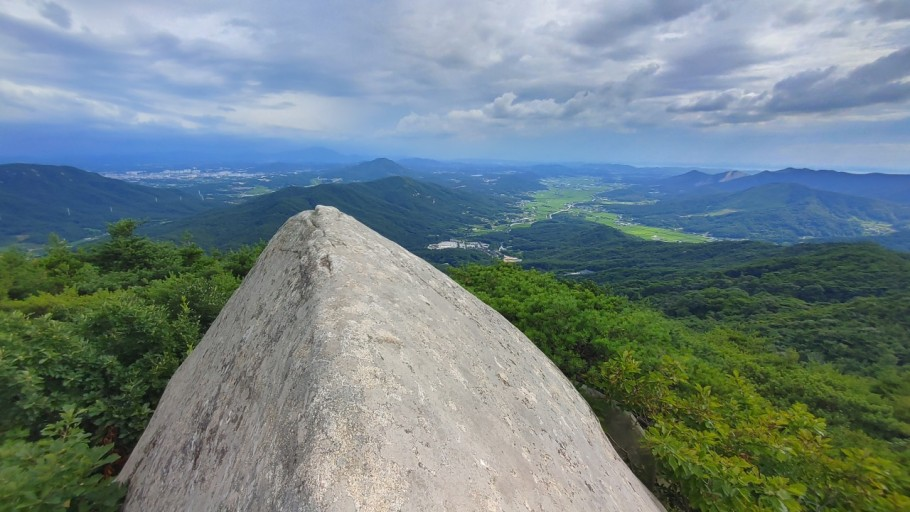
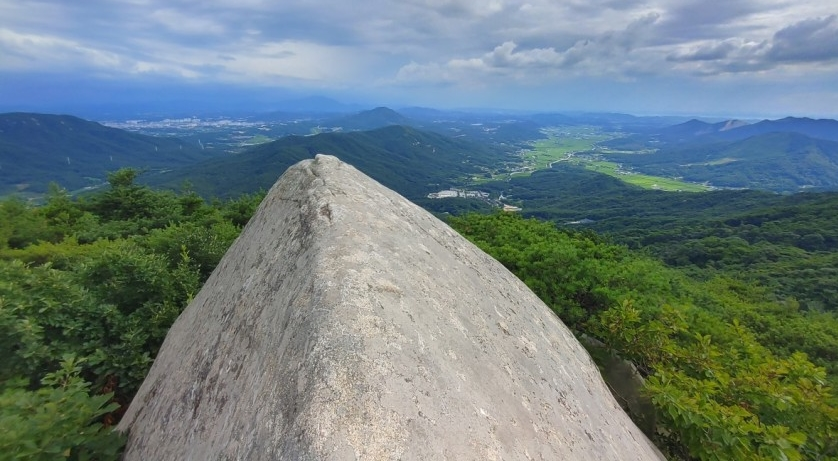
220217 산정보 상세(슬라이드 이미지 수정 전)

diff --git a/html/1mountain-detail.html b/html/1mountain-detail.html
@@ -39,10 +39,10 @@
 </head>
 
 <body style="padding-top: 72px">
-  <header class="header">     
+  <header class="header">
     <!-- 내브바 -->
     <nav class="navbar navbar-expand-lg fixed-top shadow navbar-light bg-white">
-      <div class="container"> 
+      <div class="container">
         <div class="d-flex align-items-center">
           <a class="navbar-brand py-1" href="index.html">
             <img src="img/logo/logo_name.png" alt="Directory logo" class="w-6rem" />
@@ -61,26 +61,31 @@
                 <i class="fa fa-search"></i>
                 <span class="sr-only">What are you looking for?</span>
               </label>
-              <input class="form-control form-control-sm border-0 shadow-0 bg-gray-200" id="searchcollapsed_search" placeholder="Search" aria-label="Search" type="search" />
+              <input class="form-control form-control-sm border-0 shadow-0 bg-gray-200" id="searchcollapsed_search"
+                placeholder="Search" aria-label="Search" type="search" />
             </div>
           </form>
           <ul class="navbar-nav ms-auto">
             <li class="nav-item">
-              <a class="nav-link fs-6" id="docsDropdownMenuLink" href="index.html" data-bs-toggle="dropdown" aria-haspopup="true" aria-expanded="false">산림</a>
+              <a class="nav-link fs-6" id="docsDropdownMenuLink" href="index.html" data-bs-toggle="dropdown"
+                aria-haspopup="true" aria-expanded="false">산림</a>
               <div class="dropdown-menu dropdown-menu-end" aria-labelledby="docsDropdownMenuLink"></div>
             </li>
             <li class="nav-item dropdown">
-              <a class="nav-link dropdown-toggle fs-6" id="docsDropdownMenuLink" href="index.html" data-bs-toggle="dropdown" aria-haspopup="true" aria-expanded="false">둘레길/자전거길</a>
+              <a class="nav-link dropdown-toggle fs-6" id="docsDropdownMenuLink" href="index.html"
+                data-bs-toggle="dropdown" aria-haspopup="true" aria-expanded="false">둘레길/자전거길</a>
               <div class="dropdown-menu dropdown-menu-end" aria-labelledby="docsDropdownMenuLink">
                 <a class="dropdown-item" href="docs/docs-introduction.html">둘레길</a>
                 <a class="dropdown-item" href="docs/docs-directory-structure.html">자전거길</a>
               </div>
             </li>
             <li class="nav-item">
-              <a class="nav-link fs-6" id="docsDropdownMenuLink" href="index.html" data-bs-toggle="dropdown" aria-haspopup="true" aria-expanded="false">휴양림</a>
+              <a class="nav-link fs-6" id="docsDropdownMenuLink" href="index.html" data-bs-toggle="dropdown"
+                aria-haspopup="true" aria-expanded="false">휴양림</a>
             </li>
             <li class="nav-item dropdown">
-              <a class="nav-link dropdown-toggle fs-6" id="docsDropdownMenuLink" href="index.html" data-bs-toggle="dropdown" aria-haspopup="true" aria-expanded="false">커뮤니티</a>
+              <a class="nav-link dropdown-toggle fs-6" id="docsDropdownMenuLink" href="index.html"
+                data-bs-toggle="dropdown" aria-haspopup="true" aria-expanded="false">커뮤니티</a>
               <div class="dropdown-menu dropdown-menu-end" aria-labelledby="docsDropdownMenuLink">
                 <a class="dropdown-item" href="docs/docs-introduction.html">방문후기</a>
                 <a class="dropdown-item" href="docs/docs-directory-structure.html">자유게시판</a>
@@ -100,34 +105,32 @@
   </header>
   <!-- 메인 -->
   <section>
-    <!-- Slider main container-->
+    <!-- 사진 슬라이더 -->
     <div class="swiper-container detail-slider slider-gallery">
-      <!-- Additional required wrapper-->
       <div class="swiper-wrapper">
-        <!-- Slides-->
         <div class="swiper-slide w-auto">
-          <a href="img/community1.jpg" data-toggle="gallery-top" title="Our street"><img class="img-fluid"
-              src="img/community1.jpg" alt="Our street" /></a>
+          <a href="img/top100/덕숭산.jpg" data-toggle="gallery-top" title="Our street"><img class="img-fluid"
+              src="img/top100/덕숭산.jpg" alt="Our street" /></a>
         </div>
         <div class="swiper-slide w-auto">
-          <a href="img/top100/강천산2.jpg" data-toggle="gallery-top" title="Outside"><img class="img-fluid"
-              src="img/top100/강천산2.jpg" alt="Outside" /></a>
+          <a href="img/top100/덕숭산2.jpg" data-toggle="gallery-top" title="Outside"><img class="img-fluid"
+              src="img/top100/덕숭산2.jpg" alt="Outside" /></a>
         </div>
         <div class="swiper-slide w-auto">
-          <a href="img/top100/가지산5.jpg" data-toggle="gallery-top" title="Rear entrance"><img class="img-fluid"
-              src="img/top100/가지산5.jpg" alt="Rear entrance" /></a>
+          <a href="img/top100/덕숭산3.jpg" data-toggle="gallery-top" title="Rear entrance"><img class="img-fluid"
+              src="img/top100/덕숭산3.jpg" alt="Rear entrance" style="object-fit: fill;" /></a>
         </div>
         <div class="swiper-slide w-auto">
-          <a href="img/top100/구병산2.jpg" data-toggle="gallery-top" title="Kitchen"><img class="img-fluid"
-              src="img/top100/구병산2.jpg" alt="Kitchen" /></a>
+          <a href="img/top100/덕숭산4.jpg" data-toggle="gallery-top" title="Kitchen"><img class="img-fluid"
+              src="img/top100/덕숭산4.jpg" alt="Kitchen" /></a>
         </div>
         <div class="swiper-slide w-auto">
-          <a href="img/top100/내연산2.jpg" data-toggle="gallery-top" title="Bedroom"><img class="img-fluid"
-              src="img/top100/금오산5.jpg" alt="Bedroom" /></a>
+          <a href="img/top100/덕숭산5.jpg" data-toggle="gallery-top" title="Bedroom"><img class="img-fluid"
+              src="img/top100/덕숭산5.jpg" alt="Bedroom" /></a>
         </div>
         <div class="swiper-slide w-auto">
-          <a href="img/top100/내연산2.jpg" data-toggle="gallery-top" title="Bedroom"><img class="img-fluid"
-              src="img/top100/내연산2.jpg" alt="Bedroom" /></a>
+          <a href="img/top100/덕숭산6.jpg" data-toggle="gallery-top" title="Bedroom"><img class="img-fluid"
+              src="img/top100/덕숭산6.jpg" alt="Bedroom" /></a>
         </div>
       </div>
       <div class="swiper-pagination swiper-pagination-white"></div>
@@ -135,112 +138,118 @@
       <div class="swiper-button-next swiper-button-white"></div>
     </div>
   </section>
+
   <!-- Hero Section2-->
-  <section class="py-4">
+  <section class="py-6">
     <div class="container">
       <div class="row">
         <div class="col-xl-8 col-lg-10 mx-auto">
           <div class="text-content">
-            <h1 class="mb-3">덕숭산(해발 고도 1708m)</h1>
-            <h3 class="mb-2">100대 명산 선정 이유</h3>
-            <p>
-              지역 주민들이 소금강이라고 할 만큼 기암괴석과 어우러진 경관이
-              수려하고, 도립공원으로 지정(1973년)되어 있는 점 등을 감안하여
-              선정, 백제 제29대 법왕 원년(599년) 지명법사가 창건한
-              수덕사(修德寺), 보물 제355호인 마애불과 덕산온천이 유명하다.
-            </p>
-            <figure class="figure mb-3">
-              <img class="figure-img img-fluid" src="img/top100/덕숭산.jpg" alt="Example blog post alt." />
-              <figcaption class="figure-caption text-center">
-                충청남도 예산군 덕산면
-              </figcaption>
-            </figure>
-            <h3 class="mb-2">상세정보</h3>
-            <p>
-              덕숭산은 호서(湖西)의 금강산(金剛山)이라고도 불리는 산으로 산
-              중턱에 수덕사가 있다.<br />
-              수덕사의 대웅전은 현존하는 최고의 목조건물이다. 수덕산은
-              기암괴석이 풍부하여 바위들이 사람의 두개골이나 노적가리, 사나운
-              짐승이 입을 벌리고 있는 듯한 형상을 지닌 절묘한 형상을 지니고
-              있다. 절경으로는 원효봉과 석문봉, 덕숭산, 해태바위 등이 있다.
-              또한 수덕사를 비롯하여 정혜사, 만공탑, 여승당, 보덕사 등 많은
-              문화재가 있으며 충의사와 덕산온천 등 명소가 있다.<br />수덕산은
-              수덕사 등 사찰산행과 온천산행을 겸할 수 있다. 등산코스는 코스가
-              짧아 가족들의 나들이 코스로도 좋다. 수덕사(修德寺)의
-              대웅전(大雄殿:국보) 앞마당에 있는 삼층석탑, 대웅전 내부의
-              고려벽화를 비롯하여 정혜사로 가는 중에 만공이 건립한 25척의
-              석불로서 머리에 이중의 갓을 쓰고 있는 미륵불입상(彌勒佛立像)과
-              만공을 추도하기 위해 세운 만공탑(萬空塔) 등이 있다.
-            </p>
-          </div>
-          <div>
-            <!-- Listing Location-->
-            <h3 class="mb-2">등산로</h3>
-            <div class="map-wrapper-300 mb-3">
-              <div class="h-100" id="detailMap">
-                <a href="#"></a>
+            <p class="text-primary mb-1 ms-1"><i class="fa-mountain fa me-1"></i>해발고도 1708m</p>
+            <h1 class="mb-4 display-4 alert-link mt-0">덕숭산</h1>
+            <div class="mb-0">
+              <h4 class="mb-2">100대 명산 선정 이유</h4>
+              <p>
+                지역 주민들이 소금강이라고 할 만큼 기암괴석과 어우러진 경관이
+                수려하고, 도립공원으로 지정(1973년)되어 있는 점 등을 감안하여
+                선정, 백제 제29대 법왕 원년(599년) 지명법사가 창건한
+                수덕사(修德寺), 보물 제355호인 마애불과 덕산온천이 유명하다.
+              </p>
+            </div>
+            <div class="mb-6">
+              <figure class="figure">
+                <img class="figure-img img-fluid" src="img/top100/덕숭산6.jpg" alt="Example blog post alt." />
+                <figcaption class="figure-caption text-center">
+                  수덕사
+                </figcaption>
+              </figure>
+            </div>
+            <div class="mb-0">
+              <h4 class="mb-4 ps-3" style="border-left: 5px solid rgb(54, 52, 52);">산행 Point</h4>
+              <p class="mb-4">
+                금강산보다 몇 수 위인 한국의 알프스한마디로 한국의 알프스다.
+                흔히 금강산에 비유하지만 높이도 72미터나 낮고 동서로 긴 능선이
+                없어 산역은 훨씬 좁다. 그럼에도 금강산이 예로부터 더 유명했던
+                이유는 교통이 편리한 데다 짚신 신고도 못 올라갈 데가 거의 없을
+                만큼 산이 순하기 때문이다. 알피니즘의 관점에서는 더욱, 설악산이
+                금강산보다 몇 수 위다.높이로는 한라산과 지리산 다음이나
+                빼어남으로는 분명 남한의 으뜸산이다. 백두대간인 공룡능선을
+                경계로 서쪽을 내설악, 동쪽을 외설악으로 나누는 것이 일반적이며
+                오색쪽을 따로 남설악으로 부르기도 한다. 내설악에는 백담계곡,
+                수렴동, 가야동, 탕수동(12선녀탕계곡) 등의 아름다운 계곡이 있고
+                외설악에는 계류미 뛰어난 천불동계곡과 협곡을 이룬 가지계곡들,
+                울산바위, 봉화대, 장군봉, 범봉 등 기골스런 암봉과 기암절벽을
+                자랑한다.눈이 많은 까닭에 설산이나 설봉산, 한계산으로도 불렸다.
+                동국여지승람에는""한가위에 내리기 시작한 눈이 하지에 이르러
+                사라지기 때문에 설악이라 한다""는 기록도 있다. 지금도 오월까지는
+                골짜기에 잔설이 남아있다.
+              </p>
+            </div>
+            <div class="mb-6">
+              <h5 class="mb-4">등산로</h5>
+              <div class="map-wrapper-300">
+                <div class="h-100" id="detailMap">
+                  <a href="#"></a>
+                </div>
               </div>
             </div>
-          </div>
-          <br />
-          <div class="text-content">
-            <h3 class="mb-2">교통정보</h3>
-            <p>
-              기점은 속초다.서울 동서울종합터미널과 강남고속버스터미널에서
-              고속버스가 30분 간격으로 있고 심야버스도 두 편 있다.속초로
-              시외버스가 다니는 도시는 부산, 대구, 광주, 대전, 울산, 수원,
-              성남, 춘천, 안산, 일산, 의정부, 충주, 태백, 포천 등이다.내설악
-              방면은 동서울동합터미널이나 상봉터미널에서 홍천 경유 직행을
-              이용한다.- 속초→설악동: 7번, 7-1번 시내버스 10분 간격 운행
-            </p>
-          </div>
-          <div class="text-content">
-            <h3 class="mb-2">산행 Point</h3>
-            <p>
-              금강산보다 몇 수 위인 한국의 알프스한마디로 한국의 알프스다.
-              흔히 금강산에 비유하지만 높이도 72미터나 낮고 동서로 긴 능선이
-              없어 산역은 훨씬 좁다. 그럼에도 금강산이 예로부터 더 유명했던
-              이유는 교통이 편리한 데다 짚신 신고도 못 올라갈 데가 거의 없을
-              만큼 산이 순하기 때문이다. 알피니즘의 관점에서는 더욱, 설악산이
-              금강산보다 몇 수 위다.높이로는 한라산과 지리산 다음이나
-              빼어남으로는 분명 남한의 으뜸산이다. 백두대간인 공룡능선을
-              경계로 서쪽을 내설악, 동쪽을 외설악으로 나누는 것이 일반적이며
-              오색쪽을 따로 남설악으로 부르기도 한다. 내설악에는 백담계곡,
-              수렴동, 가야동, 탕수동(12선녀탕계곡) 등의 아름다운 계곡이 있고
-              외설악에는 계류미 뛰어난 천불동계곡과 협곡을 이룬 가지계곡들,
-              울산바위, 봉화대, 장군봉, 범봉 등 기골스런 암봉과 기암절벽을
-              자랑한다.눈이 많은 까닭에 설산이나 설봉산, 한계산으로도 불렸다.
-              동국여지승람에는""한가위에 내리기 시작한 눈이 하지에 이르러
-              사라지기 때문에 설악이라 한다""는 기록도 있다. 지금도 오월까지는
-              골짜기에 잔설이 남아있다.
-            </p>
-          </div>
+            <div class="mb-6">
+              <h4 class="mb-4 ps-3" style="border-left: 5px solid rgb(54, 52, 52);">상세정보</h4>
+              <p class="mb-5">
+                덕숭산은 호서(湖西)의 금강산(金剛山)이라고도 불리는 산으로 산
+                중턱에 수덕사가 있다.<br />
+                수덕사의 대웅전은 현존하는 최고의 목조건물이다. 수덕산은
+                기암괴석이 풍부하여 바위들이 사람의 두개골이나 노적가리, 사나운
+                짐승이 입을 벌리고 있는 듯한 형상을 지닌 절묘한 형상을 지니고
+                있다. 절경으로는 원효봉과 석문봉, 덕숭산, 해태바위 등이 있다.
+                또한 수덕사를 비롯하여 정혜사, 만공탑, 여승당, 보덕사 등 많은
+                문화재가 있으며 충의사와 덕산온천 등 명소가 있다.<br />수덕산은
+                수덕사 등 사찰산행과 온천산행을 겸할 수 있다. 등산코스는 코스가
+                짧아 가족들의 나들이 코스로도 좋다. 수덕사(修德寺)의
+                대웅전(大雄殿:국보) 앞마당에 있는 삼층석탑, 대웅전 내부의
+                고려벽화를 비롯하여 정혜사로 가는 중에 만공이 건립한 25척의
+                석불로서 머리에 이중의 갓을 쓰고 있는 미륵불입상(彌勒佛立像)과
+                만공을 추도하기 위해 세운 만공탑(萬空塔) 등이 있다.
+              </p>
+            </div>
 
+            <div class="mb-6">
+              <h4 class="mb-4 ps-3" style="border-left: 5px solid rgb(54, 52, 52);">교통정보</h4>
+              <p>
+                기점은 속초다.서울 동서울종합터미널과 강남고속버스터미널에서
+                고속버스가 30분 간격으로 있고 심야버스도 두 편 있다.속초로
+                시외버스가 다니는 도시는 부산, 대구, 광주, 대전, 울산, 수원,
+                성남, 춘천, 안산, 일산, 의정부, 충주, 태백, 포천 등이다.내설악
+                방면은 동서울동합터미널이나 상봉터미널에서 홍천 경유 직행을
+                이용한다.- 속초→설악동: 7번, 7-1번 시내버스 10분 간격 운행
+              </p>
+            </div>
+          </div>
           <div class="row gallery mb-3 ms-n1 me-n1">
             <h5 class="mb-4">주변 시설</h5>
             <div class="col-lg-4 col-6 px-1 mb-2">
               <a href="img/photo/photo-1426122402199-be02db90eb90.jpg" data-fancybox="gallery" title="Our street"><img
-                  class="img-fluid" src="img/community8.png" alt="..." /></a>
+                  class="img-fluid" src="img/none-img.png" alt="..." /></a>
             </div>
             <div class="col-lg-4 col-6 px-1 mb-2">
               <a href="img/photo/photo-1512917774080-9991f1c4c750.jpg" data-fancybox="gallery" title="Outside"><img
-                  class="img-fluid" src="img/community1.jpg" alt="..." /></a>
+                  class="img-fluid" src="img/none-img.png" alt="..." /></a>
             </div>
             <div class="col-lg-4 col-6 px-1 mb-2">
               <a href="img/photo/photo-1494526585095-c41746248156.jpg" data-fancybox="gallery"
-                title="Rear entrance"><img class="img-fluid" src="img/community13.jpg" alt="..." /></a>
+                title="Rear entrance"><img class="img-fluid" src="img/none-img.png" alt="..." /></a>
             </div>
             <div class="col-lg-4 col-6 px-1 mb-2">
               <a href="img/photo/photo-1484154218962-a197022b5858.jpg" data-fancybox="gallery" title="Kitchen"><img
-                  class="img-fluid" src="img/community9.png" alt="..." /></a>
+                  class="img-fluid" src="img/none-img.png" alt="..." /></a>
             </div>
             <div class="col-lg-4 col-6 px-1 mb-2">
               <a href="img/photo/photo-1522771739844-6a9f6d5f14af.jpg" data-fancybox="gallery" title="Bedroom"><img
-                  class="img-fluid" src="img/community6.png" alt="..." /></a>
+                  class="img-fluid" src="img/none-img.png" alt="..." /></a>
             </div>
             <div class="col-lg-4 col-6 px-1 mb-2">
               <a href="img/photo/photo-1488805990569-3c9e1d76d51c.jpg" data-fancybox="gallery" title="Bedroom"><img
-                  class="img-fluid" src="img/community9.png" alt="..." /></a>
+                  class="img-fluid" src="img/none-img.png" alt="..." /></a>
             </div>
           </div>
         </div>
